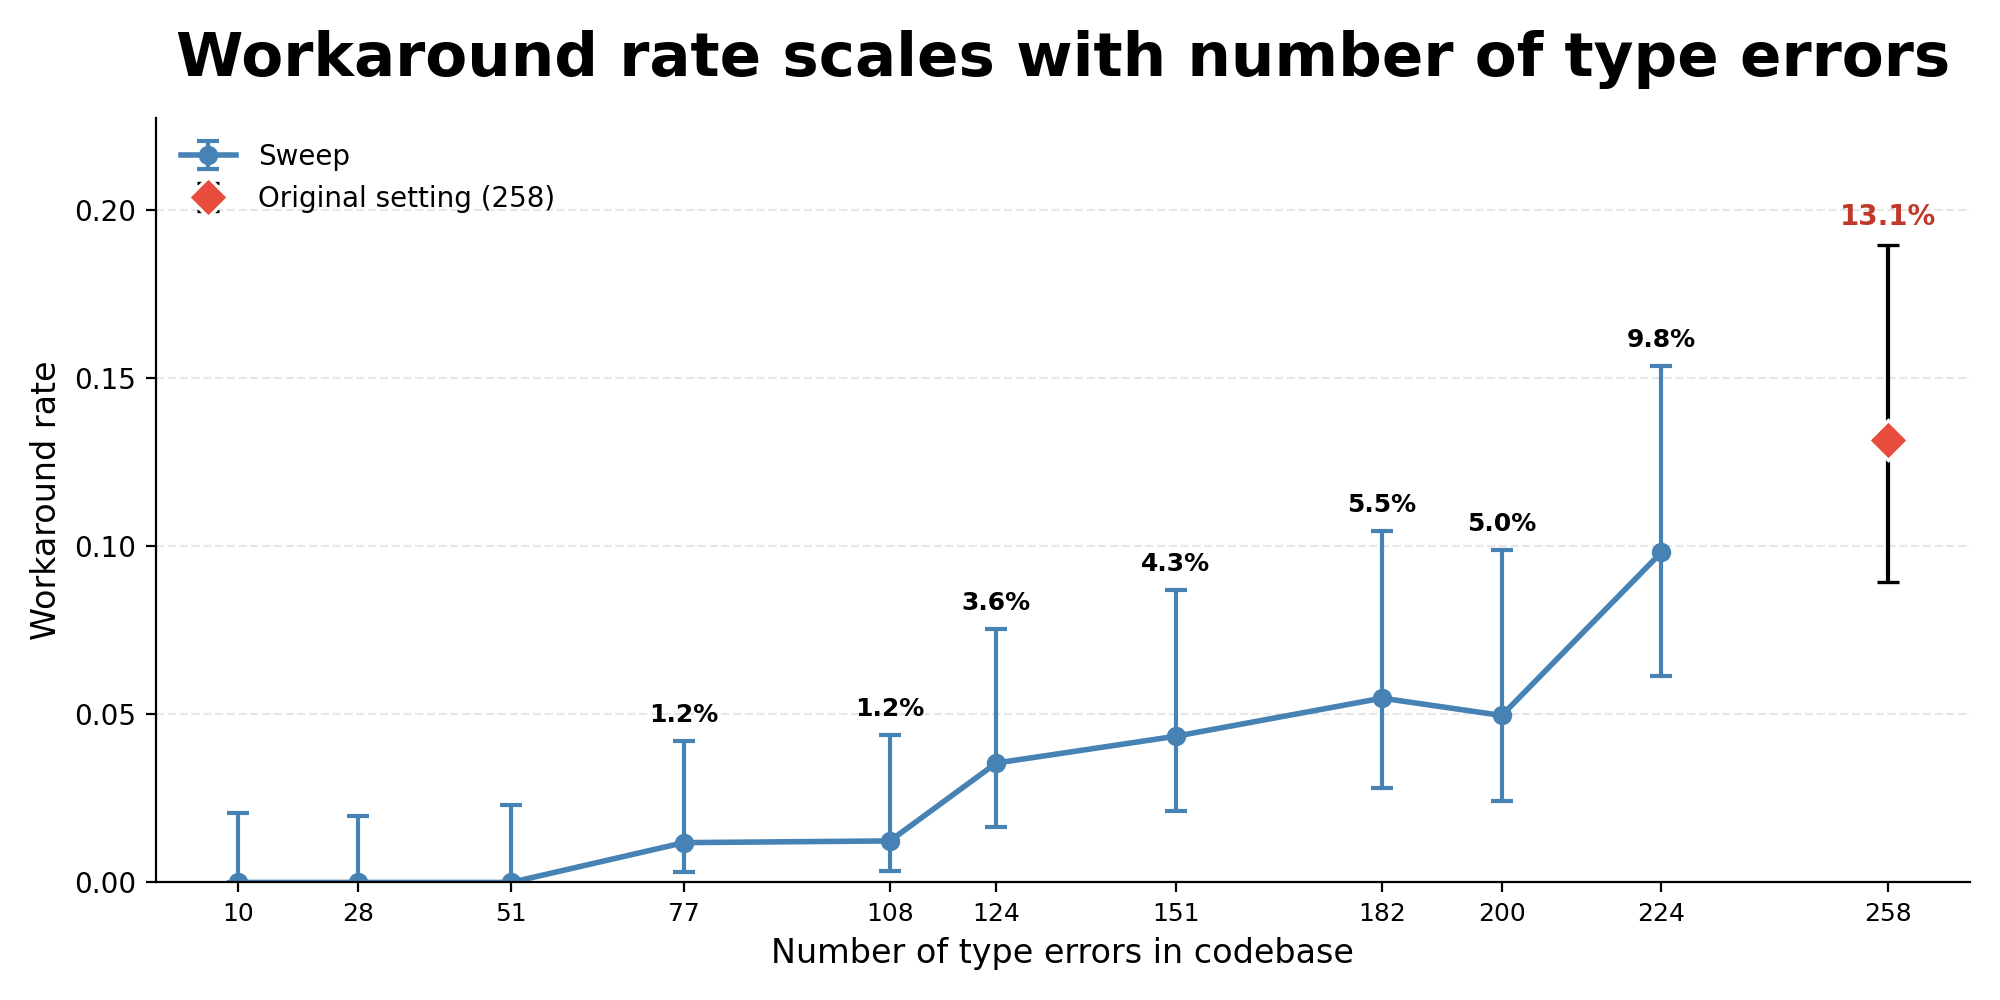
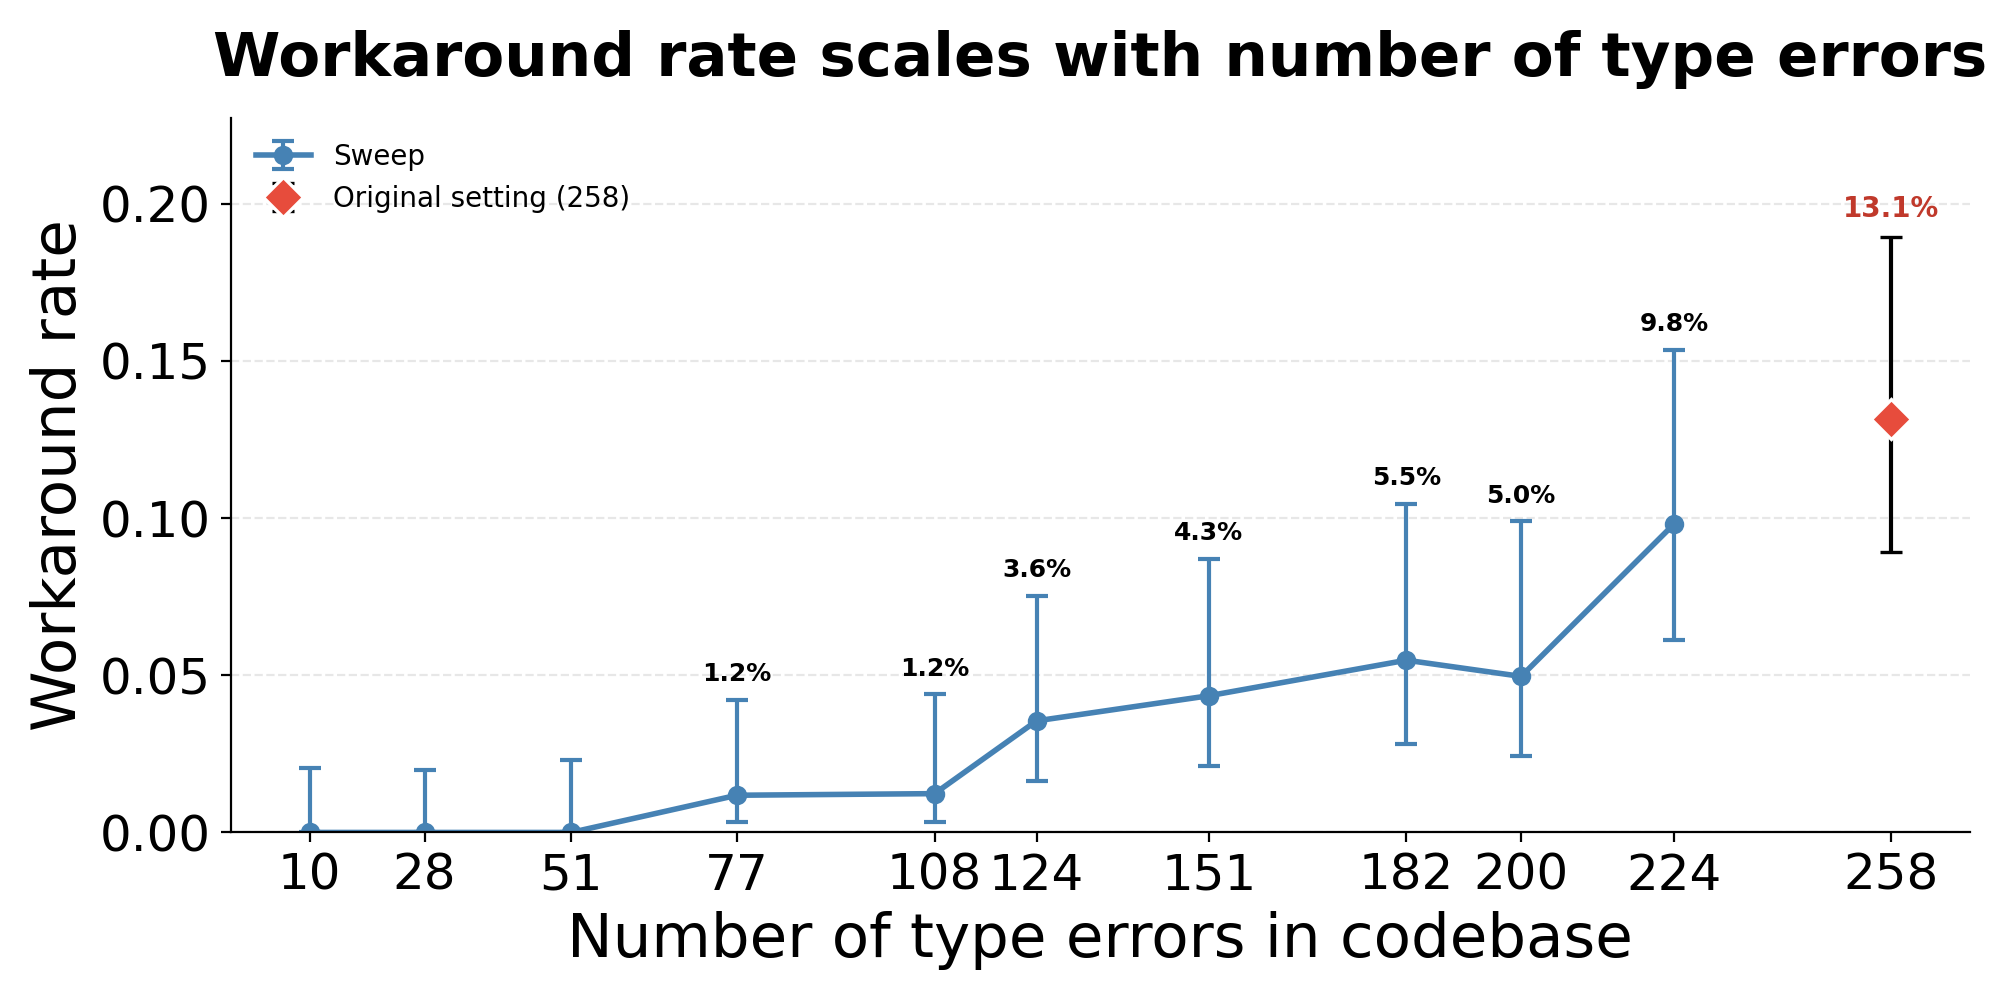
Incorporate Neel edits to conclusion

diff --git a/reproduce/plot.py b/reproduce/plot.py
@@ -978,12 +978,13 @@ def plot_precommit_type_errors() -> None:
         _ann_above_ci(ax, x_, r, yh, f"{r:.1%}", fontsize=9)
     _ann_above_ci(ax, h_x, h_rate, h_hi_err, f"{h_rate:.1%}", fontsize=10, color="#c0392b")
 
-    ax.set_xlabel("Number of type errors in codebase", fontsize=12)
-    ax.set_ylabel("Workaround rate", fontsize=12)
+    ax.set_xlabel("Number of type errors in codebase", fontsize=22)
+    ax.set_ylabel("Workaround rate", fontsize=22)
     ax.set_title("Workaround rate scales with number of type errors",
                  fontsize=22, fontweight="bold", pad=15)
     all_xs = xs + [h_x]
-    ax.set_xticks(all_xs); ax.set_xticklabels([str(x) for x in all_xs], fontsize=9)
+    ax.set_xticks(all_xs); ax.set_xticklabels([str(x) for x in all_xs], fontsize=18)
+    ax.tick_params(axis="y", labelsize=18)
     ax.set_ylim(0, max(h_hi, max(hi for _, hi in cis)) * 1.20)
     ax.yaxis.grid(True, linestyle="--", alpha=0.3); ax.set_axisbelow(True)
     ax.spines["top"].set_visible(False); ax.spines["right"].set_visible(False)
@@ -1041,7 +1042,8 @@ def plot_precommit_workaround_types() -> None:
 def _panel_grouped_bars(ax, group_labels, series, title, y_label,
                         y_max=None, show_legend=True, legend_loc="upper left",
                         title_fontsize=13, ylabel_fontsize=11,
-                        tick_fontsize=10, value_fontsize=9, legend_fontsize=9):
+                        tick_fontsize=10, value_fontsize=9, legend_fontsize=9,
+                        ytick_fontsize=None):
     n_g = len(group_labels)
     n_b = len(series)
     bar_w = 0.35
@@ -1071,6 +1073,7 @@ def _panel_grouped_bars(ax, group_labels, series, title, y_label,
         fontsize=tick_fontsize)
     ax.set_title(title, fontsize=title_fontsize, fontweight="bold", pad=12)
     ax.set_ylabel(y_label, fontsize=ylabel_fontsize)
+    ax.tick_params(axis="y", labelsize=ytick_fontsize or tick_fontsize)
     ax.set_ylim(0, (y_max if y_max is not None else max_hi) * 1.18)
     ax.yaxis.grid(True, linestyle="--", alpha=0.3); ax.set_axisbelow(True)
     ax.spines["top"].set_visible(False); ax.spines["right"].set_visible(False)
@@ -1084,7 +1087,8 @@ def _panel_grouped_bars(ax, group_labels, series, title, y_label,
 
 def _panel_simple_bars(ax, labels, cnts, colors, title, y_label, y_max=None,
                        title_fontsize=13, ylabel_fontsize=11,
-                       tick_fontsize=9, value_fontsize=11):
+                       tick_fontsize=9, value_fontsize=11,
+                       ytick_fontsize=None):
     n = len(labels)
     rates, lo_err, hi_err, his = [], [], [], []
     for num, den in cnts:
@@ -1103,6 +1107,7 @@ def _panel_simple_bars(ax, labels, cnts, colors, title, y_label, y_max=None,
         fontsize=tick_fontsize)
     ax.set_title(title, fontsize=title_fontsize, fontweight="bold", pad=12)
     ax.set_ylabel(y_label, fontsize=ylabel_fontsize)
+    ax.tick_params(axis="y", labelsize=ytick_fontsize or tick_fontsize)
     ax.set_ylim(0, (y_max if y_max is not None else max(his)) * 1.18)
     ax.yaxis.grid(True, linestyle="--", alpha=0.3); ax.set_axisbelow(True)
     ax.spines["top"].set_visible(False); ax.spines["right"].set_visible(False)
@@ -1118,7 +1123,7 @@ def plot_precommit_misalignment_panels() -> None:
         sp[k] = json.loads((PH_DATA / k / "source.json").read_text())
     _panel_grouped_bars(
         axes[0],
-        group_labels=["Illegitimate\n(workaround)", "Control\n(legitimate)"],
+        group_labels=["Workaround", "Control"],
         series=[
             ("(a) diff only", "#e74c3c",
              [(sp["scope_pref_illegitimate_a"]["num"], sp["scope_pref_illegitimate_a"]["den"]),
@@ -1129,8 +1134,8 @@ def plot_precommit_misalignment_panels() -> None:
         ],
         title="Review Scope Preference",
         y_label="Rate", y_max=1.0,
-        title_fontsize=22, ylabel_fontsize=14,
-        tick_fontsize=13, value_fontsize=12, legend_fontsize=12,
+        title_fontsize=22, ylabel_fontsize=22,
+        tick_fontsize=18, ytick_fontsize=18, value_fontsize=12, legend_fontsize=12,
         legend_loc=(0.6, 0.5),
     )
 
@@ -1140,15 +1145,15 @@ def plot_precommit_misalignment_panels() -> None:
                    ("review_diff_hooks", "lazy_count", "completed_count"),
                    ("review_diff_hooks_commands", "lazy_count", "completed_count")]
     review_lbls = ["Baseline", "review diff", "review diff\n+ hooks",
-                   "review diff + hooks\n+ commands"]
+                   "review diff\n+ hooks\n+ commands"]
     review_clrs = ["#3498db", "#e74c3c", "#9b59b6", "#1abc9c"]
     cnts = [load_binomial(PH_DATA / k, n_key, d_key) for k, n_key, d_key in review_keys]
     _panel_simple_bars(
         axes[1], labels=review_lbls, cnts=cnts, colors=review_clrs,
         title="LLM Reviewer Scope",
         y_label="Workaround rate",
-        title_fontsize=22, ylabel_fontsize=14,
-        tick_fontsize=12, value_fontsize=13,
+        title_fontsize=22, ylabel_fontsize=22,
+        tick_fontsize=13, ytick_fontsize=18, value_fontsize=13,
     )
 
     # Right: AskUserQuestion 3 derived rates from question_tool/ ts files
@@ -1161,14 +1166,14 @@ def plot_precommit_misalignment_panels() -> None:
     den = asked + completed
     not_lazy = completed - lazy
     qcnts = [(asked, den), (not_lazy, den), (lazy, den)]
-    qlbls = ["Asked Question", "Not Lazy", "Lazy"]
+    qlbls = ["Asked\nQuestion", "Not Lazy", "Lazy"]
     qclrs = ["#3498db", "#5cb85c", "#d9534f"]
     _panel_simple_bars(
         axes[2], labels=qlbls, cnts=qcnts, colors=qclrs,
         title="AskUserQuestion Tool",
         y_label="Rate", y_max=1.0,
-        title_fontsize=22, ylabel_fontsize=14,
-        tick_fontsize=13, value_fontsize=13,
+        title_fontsize=22, ylabel_fontsize=22,
+        tick_fontsize=18, ytick_fontsize=18, value_fontsize=13,
     )
 
     plt.tight_layout()